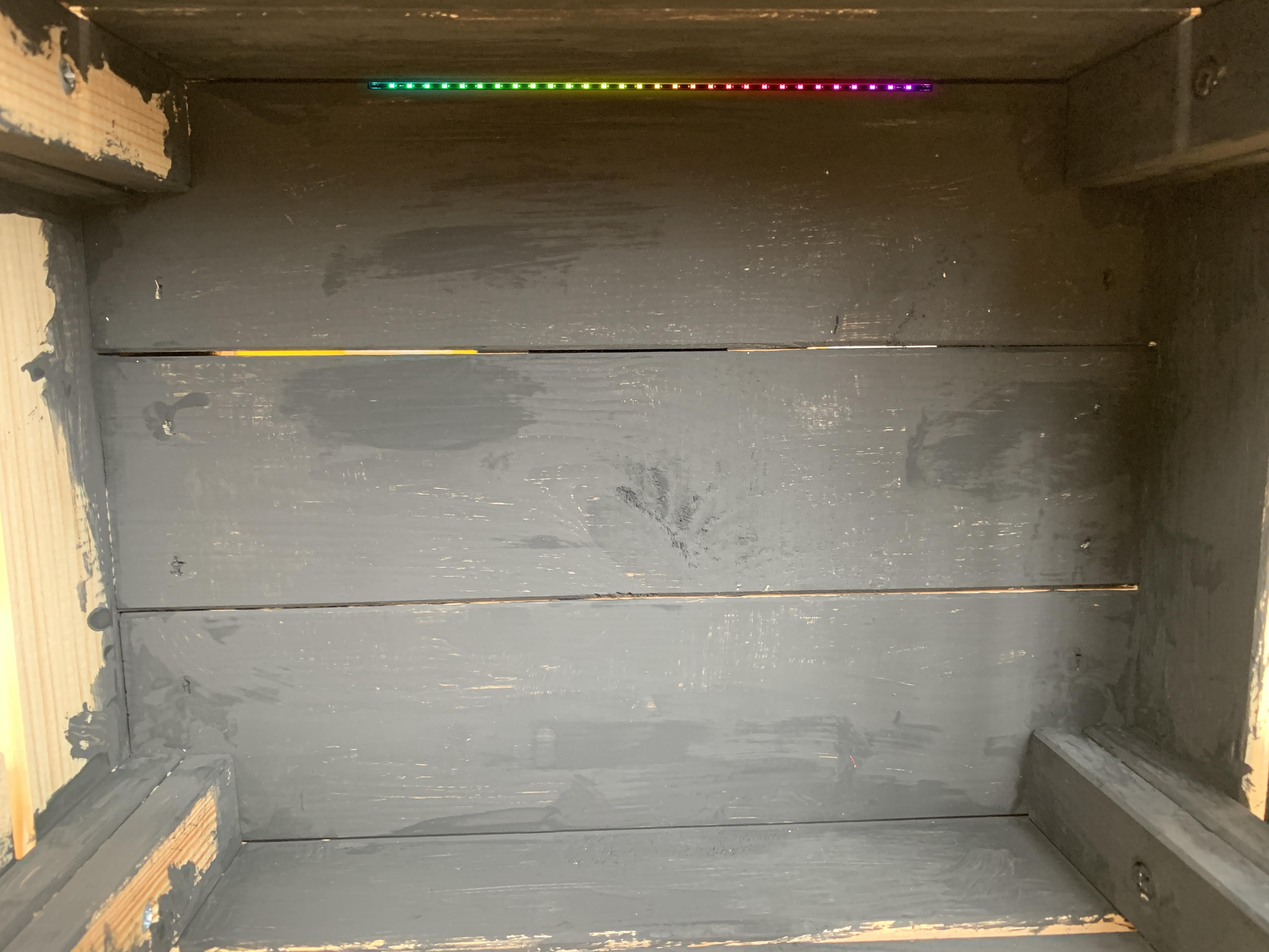
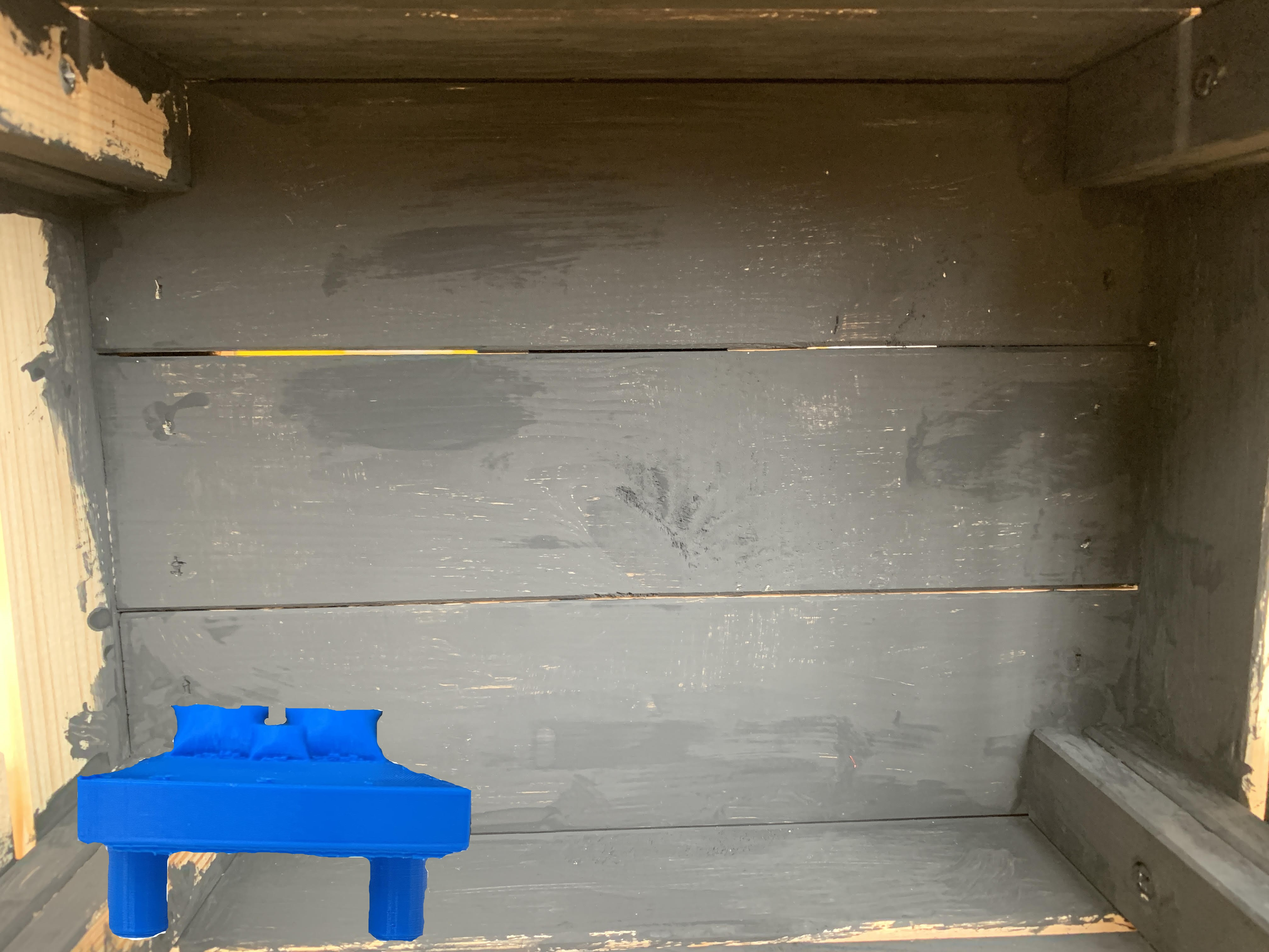
Doos beter gemaakt

Changed region(s): [[0.0625, 0.7149, 0.375, 0.9947], [0.2812, 0.0622, 0.75, 0.1243]]

diff --git a/javascript/smarthouse.js b/javascript/smarthouse.js
@@ -1,6 +1,8 @@
 let backgroundcolor = (0,0,0);
 let doos;
 let uitlegText = document.getElementById("uitleg");
+let op = 0;
+let clicked = false;
 function setup() {
   let canvas = createCanvas(800,600);
   canvas.parent('canvas');
@@ -13,11 +15,20 @@ function draw(){
   rect(mouseX,mouseY,20,20)
   image(doos,0,0, 800,600);
   text(mouseX.toString() + ", " + mouseY.toString(), 0,100)
+  uitlegText.style.opacity = op;
+  if (clicked){
+    op += 0.025;
+  }
 }
 function mousePressed(){
   if (mouseX > 230 && mouseX < 590){
-    if (mouseY > 50 && mouseY < 60){
+    if (mouseY > 70 && mouseY < 90){
+      clicked = true;
       uitlegText.innerHTML = "Dit is de led strip. Dit is een lichtje wat aan gaat als je twee keer klapt.";
+    }
+  } else if (mouseX > 50 && mouseX < 290){
+    if (mouseY > 430 && mouseY < 590){
+      uitlegText.innerHTML = "Dit is het bed. Dit bed is inklapbaar."
     }
   }
 }

diff --git a/css/website.css b/css/website.css
@@ -62,3 +62,7 @@ body {
   overflow: hidden;
   margin-top:-200px;
 }
+a {
+  color:blue;
+  text-decoration: none;
+}
